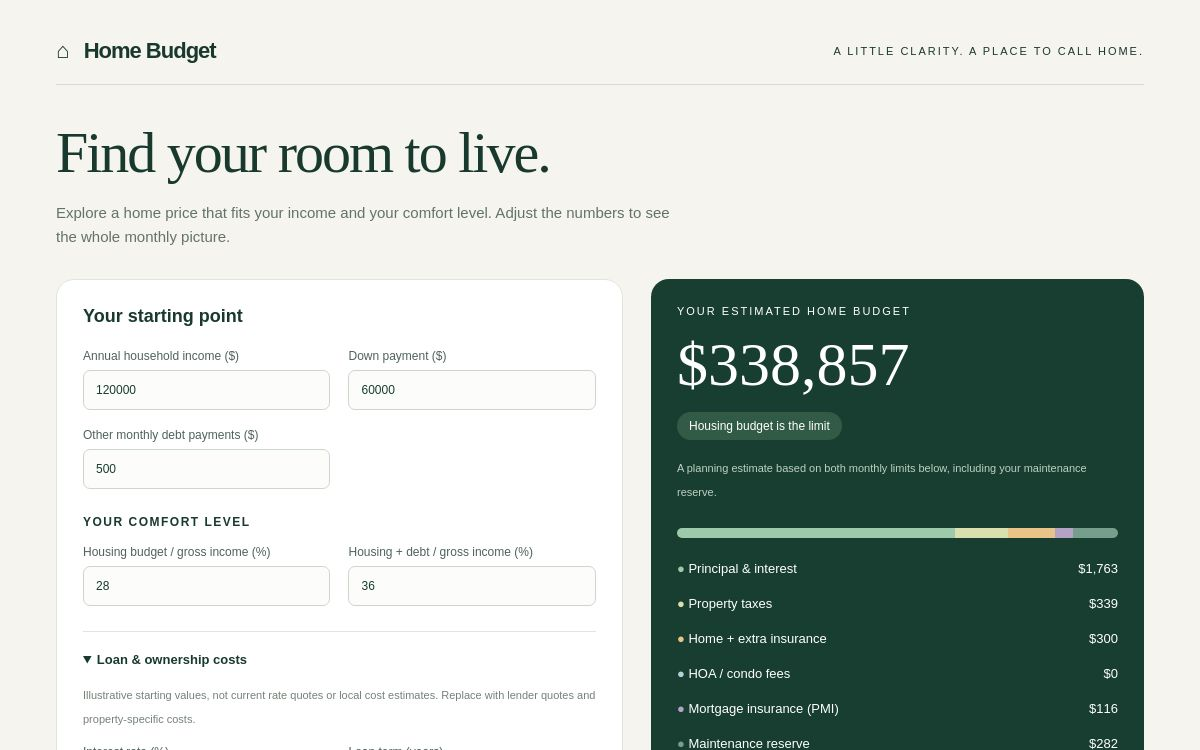
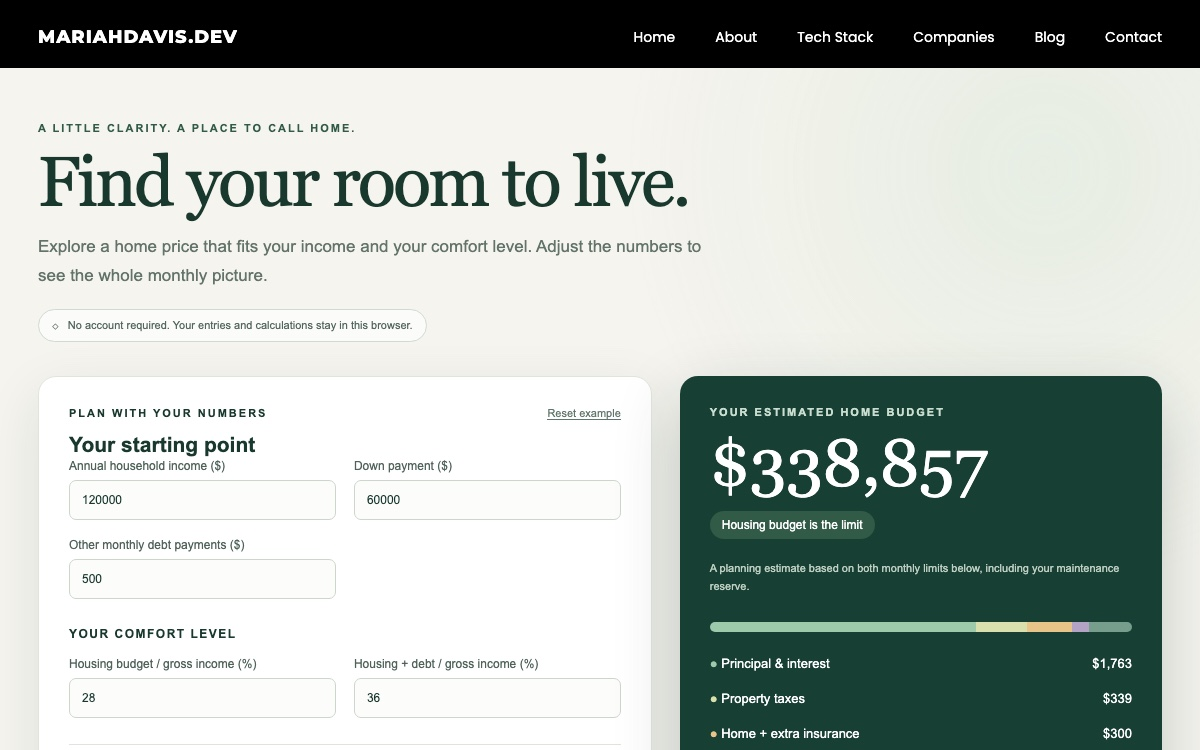
Add marketing dashboard data pipeline article with comprehensive insights on data quality and reporting

diff --git a/marketing-dashboard-data-pipeline.html b/marketing-dashboard-data-pipeline.html
@@ -1,0 +1,167 @@
+<!doctype html>
+<html class="no-js" lang="en">
+<head>
+    <meta charset="utf-8">
+    <meta http-equiv="X-UA-Compatible" content="IE=edge">
+    <meta name="viewport" content="width=device-width, initial-scale=1">
+    <meta name="description" content="Why trustworthy marketing dashboards begin with clear definitions, reliable data pipelines, and validation—not better charts.">
+    <meta name="keywords" content="marketing analytics, data pipeline, dashboard, marketing operations, data quality, Mariah Davis">
+    <meta property="og:title" content="Your Marketing Dashboard Isn’t the Problem—Your Data Pipeline Is">
+    <meta property="og:description" content="A practical framework for building marketing reporting people can understand and trust.">
+    <meta property="og:image" content="https://www.mariahdavis.dev/img/blog/marketing-data-pipeline.jpg?v=20261022">
+    <meta property="og:type" content="article">
+    <title>Your Marketing Dashboard Isn’t the Problem | Mariah Davis</title>
+    <link href="img/favicon.ico" rel="icon" type="image/png">
+    <link rel="stylesheet" href="css/bootstrap.min.css">
+    <link href="https://fonts.googleapis.com/css?family=Montserrat:200,300,400,500,600,700,800,900" rel="stylesheet">
+    <link href="https://fonts.googleapis.com/css?family=Poppins:200,300,400,500,600,700,800" rel="stylesheet">
+    <link rel="stylesheet" href="css/font-awesome.min.css">
+    <link rel="stylesheet" href="https://cdnjs.cloudflare.com/ajax/libs/font-awesome/6.7.2/css/all.min.css">
+    <link rel="stylesheet" href="css/et-line.css">
+    <link rel="stylesheet" href="css/style.css">
+    <link rel="stylesheet" href="css/blog.css">
+    <!--[if lt IE 9]><script src="js/html5shiv.min.js"></script><![endif]-->
+</head>
+<body>
+    <div class="loading"></div>
+
+    <nav class="navbar navbar-default">
+        <div class="container">
+            <div class="navbar-header">
+                <button type="button" class="navbar-toggle collapsed" data-toggle="collapse" data-target="#nav-icon-collapse" aria-expanded="false">
+                    <span class="sr-only">Toggle navigation</span>
+                    <span class="icon-bar"></span><span class="icon-bar"></span><span class="icon-bar"></span>
+                </button>
+                <a class="logo" href="index.html#home">mariahdavis.dev</a>
+            </div>
+            <div class="collapse navbar-collapse" id="nav-icon-collapse">
+                <ul class="nav navbar-nav navbar-right">
+                    <li><a href="index.html#home">Home</a></li>
+                    <li><a href="index.html#about">About</a></li>
+                    <li><a href="index.html#tech-stack">Tech Stack</a></li>
+                    <li><a href="index.html#companies">Companies</a></li>
+                    <li><a href="blog.html" class="active" aria-current="page">Blog</a></li>
+                    <li><a href="index.html#contact">Contact</a></li>
+                </ul>
+            </div>
+        </div>
+    </nav>
+
+    <header class="min-header post-header">
+        <div class="v-middle mt-30">
+            <div class="container">
+                <div class="row">
+                    <div class="col-md-offset-1 col-md-10 text-center">
+                        <p class="eyebrow">Marketing analytics &amp; operations</p>
+                        <h1>Your Marketing Dashboard Isn’t the Problem—Your Data Pipeline Is</h1>
+                        <p class="post-byline">By Mariah Davis · October 22, 2026 · 6 min read</p>
+                    </div>
+                </div>
+            </div>
+        </div>
+    </header>
+
+    <main class="blogs post-page section-padding bg-gray">
+        <div class="container">
+            <div class="row">
+                <div class="col-md-offset-1 col-md-10">
+                    <article class="post mb-80">
+                        <figure class="post-img post-hero-image">
+                            <img src="img/blog/marketing-data-pipeline.jpg?v=20261022" alt="Illustration of marketing data sources moving through a clean pipeline into a dashboard">
+                            <figcaption>A useful dashboard is the visible end of a much larger system of definitions, transformations, and quality checks.</figcaption>
+                        </figure>
+
+                        <div class="content post-article-content">
+                            <p class="post-lede">When a marketing dashboard feels wrong, the instinct is often to redesign the chart. Change the colors. Add a filter. Rebuild it in a different platform. But a prettier dashboard cannot repair the data underneath it.</p>
+
+                            <p>A dashboard is the last mile of a long journey. Before a number reaches the screen, it may pass through an ad platform, website analytics, a marketing automation tool, a CRM, an integration, a warehouse, and several transformation steps. If those systems disagree—or if nobody has agreed on what the metric means—the dashboard simply presents the confusion more neatly.</p>
+
+                            <h2>The dashboard is usually the messenger</h2>
+                            <p>Imagine a report that shows 1,200 marketing-qualified leads for the quarter. It looks precise, but what does that number actually represent? It could count every person who reached a score threshold, only leads created during the quarter, or every lead whose status changed during the quarter. Recycled leads and duplicate records might be included. Deleted records might disappear from history.</p>
+
+                            <p>None of those interpretations is automatically wrong. The problem is that they answer different questions while sharing the same label. A dashboard cannot resolve that ambiguity on its own.</p>
+
+                            <aside class="post-callout">
+                                <p><strong>A metric is not trustworthy because it is precise.</strong> It is trustworthy when its definition is clear, its source is understood, and someone can explain how it was calculated.</p>
+                            </aside>
+
+                            <h2>Watch for the warning signs</h2>
+                            <p>Data-pipeline problems often appear as ordinary reporting frustrations. A few signals show up repeatedly:</p>
+
+                            <ul>
+                                <li>The same metric has a different value in the CRM, ad platform, and executive report.</li>
+                                <li>A number changes after the reporting period has closed, but nobody can explain why.</li>
+                                <li>Channel names, campaign types, or lifecycle stages need constant manual cleanup.</li>
+                                <li>Analysts maintain separate spreadsheets because the official model cannot answer basic questions.</li>
+                                <li>A report depends on one person remembering a complicated set of filters.</li>
+                            </ul>
+
+                            <p>These are not visualization problems. They point to unclear definitions, unstable source data, missing transformation logic, or a lack of validation.</p>
+
+                            <h2>Build trust from source to screen</h2>
+                            <p>I like to think about marketing reporting as five connected layers. Each layer should have a clear job.</p>
+
+                            <ol>
+                                <li><strong>Sources:</strong> Identify the systems where each fact originates and which system owns it. Ad platforms may own spend; the CRM may own opportunity stage and revenue.</li>
+                                <li><strong>Definitions:</strong> Write down the business meaning of every important metric. Specify the event, time window, inclusion rules, exclusions, and owner.</li>
+                                <li><strong>Transformations:</strong> Standardize fields, preserve history, handle duplicates, map campaigns, and make calculations visible instead of burying logic in a chart.</li>
+                                <li><strong>Validation:</strong> Test row counts, totals, freshness, accepted values, and relationships. Compare important outputs with their source systems on a schedule.</li>
+                                <li><strong>Presentation:</strong> Choose the smallest set of charts that helps someone make a decision. Only now is it time to debate colors and filters.</li>
+                            </ol>
+
+                            <p>This order matters. Starting with the dashboard encourages teams to make local fixes at the presentation layer. Starting with the decision and tracing backward creates a system that can support more than one report.</p>
+
+                            <h2>Ask better questions before choosing a tool</h2>
+                            <p>Reporting projects often begin with “Should we use Tableau, Power BI, or Looker Studio?” That decision matters, but it comes later. First ask:</p>
+
+                            <ul>
+                                <li>What decision should this report help someone make?</li>
+                                <li>Which metrics support that decision, and who owns their definitions?</li>
+                                <li>Where does each required field originate?</li>
+                                <li>How often should the data refresh, and how will we know if it did not?</li>
+                                <li>What historical behavior must be preserved?</li>
+                                <li>How will a user investigate a surprising number?</li>
+                            </ul>
+
+                            <p>The answers reveal the actual architecture you need. Sometimes that means a warehouse and modeled data. Sometimes a carefully governed spreadsheet is enough. The right solution is the simplest one that remains understandable, repeatable, and reliable.</p>
+
+                            <h2>A quick audit you can run this week</h2>
+                            <p>Choose one executive metric and trace it backward. Write down the dashboard formula, transformation logic, source fields, and business definition. Then compare the final value with the source and investigate every difference.</p>
+
+                            <p>You do not need to audit the entire marketing stack at once. One end-to-end metric can expose duplicate rules, naming inconsistencies, undocumented filters, and ownership gaps. More importantly, it gives the team a shared example of what trustworthy reporting should look like.</p>
+
+                            <p>The best dashboards are not the ones with the most charts. They are the ones that make a useful answer easy to find—and make that answer easy to trust.</p>
+
+                            <div class="post-footer-nav">
+                                <a href="blog.html"><i class="fa-solid fa-arrow-left" aria-hidden="true"></i> Back to all posts</a>
+                                <a href="index.html#contact">Let’s talk data systems <i class="fa-solid fa-arrow-right" aria-hidden="true"></i></a>
+                            </div>
+                        </div>
+                    </article>
+                </div>
+            </div>
+        </div>
+    </main>
+
+    <footer>
+        <div class="container text-center">
+            <div class="row">
+                <p> Made with ♥ by mariahdavis.dev </p>
+            </div>
+        </div>
+    </footer>
+
+    <script src="https://code.jquery.com/jquery-3.0.0.min.js"></script>
+    <script src="https://code.jquery.com/jquery-migrate-3.0.0.min.js"></script>
+    <script src="js/bootstrap.min.js"></script>
+    <script src="js/scrollIt.min.js"></script>
+    <script src="js/jquery.magnific-popup.min.js"></script>
+    <script src="js/owl.carousel.min.js"></script>
+    <script src="js/jquery.stellar.min.js"></script>
+    <script src="js/jquery.waypoints.min.js"></script>
+    <script src="js/jquery.counterup.min.js"></script>
+    <script src="js/isotope.pkgd.min.js"></script>
+    <script src="js/validator.js"></script>
+    <script src="js/custom.js"></script>
+</body>
+</html>

diff --git a/blog.html b/blog.html
@@ -46,7 +46,6 @@
             <div class="container">
                 <div class="row">
                     <div class="text-center">
-                        <p class="eyebrow">Notes from the workbench</p>
                         <h1>My Blog</h1>
                         <p>Ideas, experiments, and useful things I build.</p>
                     </div>
@@ -60,8 +59,29 @@
             <div class="row">
                 <div class="col-md-offset-1 col-md-10">
                     <article class="post blog-listing-card">
+                        <a class="post-img" href="marketing-dashboard-data-pipeline.html">
+                            <img src="img/blog/marketing-data-pipeline.jpg?v=20261022" alt="Illustration of marketing data sources flowing through a clean pipeline into a dashboard">
+                        </a>
+                        <div class="content text-center">
+                            <div class="post-meta">
+                                <p class="blog-date">October 22, 2026 · 6 min read</p>
+                                <div class="post-title">
+                                    <h2><a href="marketing-dashboard-data-pipeline.html">Your Marketing Dashboard Isn’t the Problem—Your Data Pipeline Is</a></h2>
+                                </div>
+                                <p class="blog-category">Marketing analytics &amp; operations</p>
+                            </div>
+                            <div class="post-cont">
+                                <p>Why reliable reporting begins with shared definitions, visible transformations, and quality checks—not a prettier chart.</p>
+                            </div>
+                            <div class="blog-listing-actions">
+                                <a href="marketing-dashboard-data-pipeline.html" class="butn">Read the story</a>
+                            </div>
+                        </div>
+                    </article>
+
+                    <article class="post blog-listing-card">
                         <a class="post-img" href="home-budget-blog-post.html">
-                            <img src="img/blog/home-budget-calculator.jpg" alt="Home Budget affordability calculator showing an estimated home budget and monthly cost breakdown">
+                            <img src="img/blog/home-budget-calculator.jpg?v=20261022" alt="Home Budget affordability calculator showing an estimated home budget and monthly cost breakdown">
                         </a>
                         <div class="content text-center">
                             <div class="post-meta">

diff --git a/index.html b/index.html
@@ -338,9 +338,25 @@
 					</div>
 
 					<div class="blog-feature-row">
+						<div class="owl-carousel owl-theme blog-carousel" aria-label="Featured blog posts">
+						<article class="pitem blog-feature-card">
+							<a class="post-img" href="marketing-dashboard-data-pipeline.html">
+								<img src="img/blog/marketing-data-pipeline.jpg?v=20261022" alt="Illustration of marketing data sources flowing through a clean pipeline into a dashboard">
+							</a>
+							<div class="content">
+								<p class="blog-date">October 22, 2026</p>
+								<h6 class="tag">Marketing analytics &amp; operations</h6>
+								<h4><a href="marketing-dashboard-data-pipeline.html">Your Marketing Dashboard Isn’t the Problem—Your Data Pipeline Is</a></h4>
+								<p class="blog-excerpt">Why reliable reporting begins with shared definitions, visible transformations, and quality checks—not a prettier chart.</p>
+								<div class="blog-card-actions">
+									<span class="more"><a href="marketing-dashboard-data-pipeline.html">Read the story</a></span>
+								</div>
+							</div>
+						</article>
+
 						<article class="pitem blog-feature-card">
 							<a class="post-img" href="home-budget-blog-post.html">
-								<img src="img/blog/home-budget-calculator.jpg" alt="Home Budget affordability calculator showing an estimated home budget and monthly cost breakdown">
+								<img src="img/blog/home-budget-calculator.jpg?v=20261022" alt="Home Budget affordability calculator showing an estimated home budget and monthly cost breakdown">
 							</a>
 							<div class="content">
 								<p class="blog-date">October 16, 2026</p>
@@ -353,6 +369,7 @@
 								</div>
 							</div>
 						</article>
+						</div>
 					</div>
 
 				</div><!-- /row -->

diff --git a/css/blog.css b/css/blog.css
@@ -13,6 +13,27 @@
   background: #fff;
 }
 
+.blog-listing-card + .blog-listing-card {
+  margin-top: 42px;
+}
+
+.blog .blog-carousel:not(.owl-loaded) .blog-feature-card + .blog-feature-card {
+  margin-top: 42px;
+}
+
+.blog .blog-carousel .owl-dots {
+  margin-top: 24px;
+}
+
+.blog .blog-carousel .owl-dot span {
+  background: #b7c9c0;
+}
+
+.blog .blog-carousel .owl-dot.active span,
+.blog .blog-carousel .owl-dot:hover span {
+  background: #173f33;
+}
+
 .blog .blog-feature-card .post-img {
   display: block;
   min-height: 390px;
@@ -85,8 +106,33 @@
 
 .blog-header,
 .post-header {
-  background: #173f33;
+  background: #000000;
   color: #fff;
+}
+
+.blog-header {
+  position: relative;
+  overflow: hidden;
+  background-color: #000;
+  background-image: url('../img/pine-watt-2Hzmz15wGik-unsplash.jpg');
+  background-position: center center;
+  background-size: cover;
+}
+
+.blog-header:after {
+  content: '';
+  position: absolute;
+  top: 0;
+  right: 0;
+  bottom: 0;
+  left: 0;
+  z-index: 2;
+  background: #000;
+  opacity: .45;
+}
+
+.blog-header .v-middle {
+  z-index: 3;
 }
 
 .blog-header h1,
@@ -101,7 +147,7 @@
 .blog-header .eyebrow,
 .post-header .eyebrow {
   margin-bottom: 14px;
-  color: #b9d5c3;
+  color: #a6bba2;
   font-size: 11px;
   font-weight: 600;
 }
@@ -198,6 +244,20 @@
   font-size: 16px;
   font-weight: 300;
   line-height: 1.9;
+}
+
+.post-article-content ul,
+.post-article-content ol {
+  margin: 0 0 28px 22px;
+  color: #3d4742;
+  font-size: 16px;
+  font-weight: 300;
+  line-height: 1.8;
+}
+
+.post-article-content li {
+  margin-bottom: 12px;
+  padding-left: 6px;
 }
 
 .post-article-content .post-lede {

diff --git a/home-budget-blog-post.html b/home-budget-blog-post.html
@@ -8,7 +8,7 @@
     <meta name="keywords" content="home affordability calculator, home budget, mortgage planning, Mariah Davis, real estate data">
     <meta property="og:title" content="I Built a Home Affordability Calculator for the Whole Monthly Picture">
     <meta property="og:description" content="A practical planning tool for exploring home price, monthly costs, and personal comfort levels.">
-    <meta property="og:image" content="https://www.mariahdavis.dev/img/blog/home-budget-calculator.jpg">
+    <meta property="og:image" content="https://www.mariahdavis.dev/img/blog/home-budget-calculator.jpg?v=20261022">
     <meta property="og:type" content="article">
     <title>I Built a Home Affordability Calculator | Mariah Davis</title>
     <link href="img/favicon.ico" rel="icon" type="image/png">
@@ -68,7 +68,7 @@
                     <article class="post mb-80">
                         <figure class="post-img post-hero-image">
                             <a href="home-budget.html">
-                                <img src="img/blog/home-budget-calculator.jpg" alt="Home Budget affordability calculator showing an estimated home budget and monthly cost breakdown">
+                                <img src="img/blog/home-budget-calculator.jpg?v=20261022" alt="Home Budget affordability calculator showing an estimated home budget and monthly cost breakdown">
                             </a>
                             <figcaption>Home Budget turns a few personal inputs into an adjustable affordability estimate and monthly cost breakdown.</figcaption>
                         </figure>

diff --git a/home-budget.html b/home-budget.html
@@ -7,7 +7,7 @@
     <meta name="keywords" content="home affordability calculator, home budget calculator, mortgage planning, housing costs, Mariah Davis">
     <meta property="og:title" content="Home Budget | Mariah Davis">
     <meta property="og:description" content="A clearer way to explore home affordability and the whole monthly ownership picture.">
-    <meta property="og:image" content="https://www.mariahdavis.dev/img/blog/home-budget-calculator.jpg">
+    <meta property="og:image" content="https://www.mariahdavis.dev/img/blog/home-budget-calculator.jpg?v=20261022">
     <meta property="og:type" content="website">
     <title>Home Budget | Mariah Davis</title>
     <link href="img/favicon.ico" rel="icon" type="image/png">

diff --git a/js/custom.js b/js/custom.js
@@ -112,24 +112,16 @@ $(function() {
     });
 
 
-    // Blog carsouel
-    $('.blog .owl-carousel').owlCarousel({
-        margin: 30,
+    // Blog carousel
+    $('.blog .blog-carousel').owlCarousel({
+        items: 1,
+        margin: 0,
         loop:true,
         autoplay:true,
+        autoplayTimeout:7000,
+        autoplayHoverPause:true,
         smartSpeed:500,
-        responsiveClass:true,
-        responsive:{
-            0:{
-                items:1
-            },
-            767:{
-                items:2
-            },
-            1000:{
-                items:3
-            }
-        }
+        dots:true
     });
 
 
